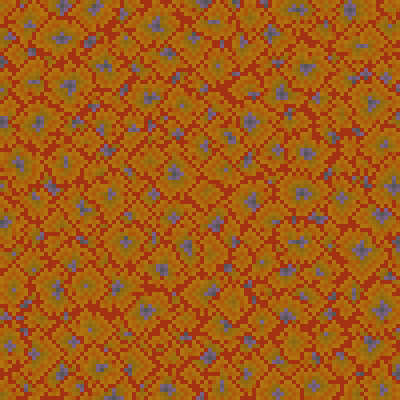
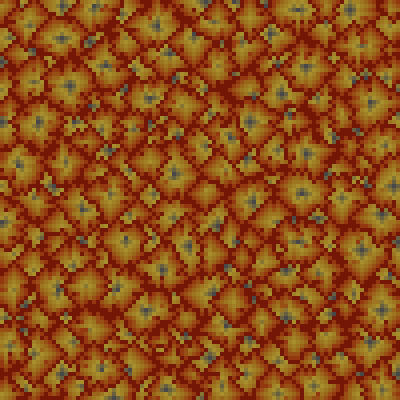
Day 9
Finished algorithm and got correct answer for part 2.
Fixed error in gradient generation function.

diff --git a/day09/day09.py b/day09/day09.py
@@ -1,10 +1,10 @@
 ## Advent of Code 2021: Day 9
 ## https://adventofcode.com/2021/day/9
 ## Jesse Williams | github.com/xram64
-## Answers: [Part 1]: 444, [Part 2]:
+## Answers: [Part 1]: 444, [Part 2]: 1168440
 
 import numpy as np
-from collections import namedtuple
+from collections import namedtuple, OrderedDict
 from PIL import Image
 
 # [Part 1: Scan over all locations, recording any local minima found within each location's L₁-norm neighborhood (with radius 1).]
@@ -45,7 +45,7 @@ def findRiskLevel(map, pos, dims):
         return (1 + map[pos])
 
 
-def constructGradient(stops):
+def constructGradient(stops, highlightEdges=None):
     # Expects a list of four RGB colors with format '#ffffff'
     if len(stops) != 4: raise ValueError('Expects 4 color stops.')
 
@@ -65,10 +65,98 @@ def constructGradient(stops):
         step_r = int( abs(stopComps[i+1][0] - stopComps[i][0]) / 3 )  # r
         step_g = int( abs(stopComps[i+1][1] - stopComps[i][1]) / 3 )  # g
         step_b = int( abs(stopComps[i+1][2] - stopComps[i][2]) / 3 )  # b
-        gradient[3*i+1] = tuple(map( lambda x,y: x+y, stopComps[i], (step_r, step_g, step_b) ))
-        gradient[3*i+2] = tuple(map( lambda x,y: x+y, stopComps[i], (2*step_r, 2*step_g, 2*step_b) ))
+        def addColors(c1, c2, step):
+            if (c1 < c2): return c1 + step    # going up
+            elif (c2 < c1): return c1 - step  # going down
+            else: return c1  # same value
+        gradient[3*i+1] = tuple(map( addColors, stopComps[i], stopComps[i+1], (step_r, step_g, step_b) ))
+        gradient[3*i+2] = tuple(map( addColors, stopComps[i], stopComps[i+1], (2*step_r, 2*step_g, 2*step_b) ))
+
+    # Optional: Highlight edges (9's) in map with a different color
+    if highlightEdges:
+        gradient[9] = (int(highlightEdges[1:3], 16), int(highlightEdges[3:5], 16), int(highlightEdges[5:7], 16))
 
     return gradient
+
+
+def _scanLeftRight(pos, map):
+    # Find the nearest borders to the given position within its row
+    left_border_idx, right_border_idx = -1, map.shape[1]  # set defaults to just outside of map in case basin is adjacent to an edge
+    row_iter = np.nditer(map[pos.y, :], flags=['f_index'])
+
+    for e in row_iter:
+        if (row_iter.index < pos.x) and (e == 1):
+            left_border_idx = row_iter.index  # save last encountered border, up to the given position
+        elif (row_iter.index > pos.x) and (e == 1):
+            right_border_idx = row_iter.index  # save next encountered border after the given position
+            break
+
+    # Return the list of potentially new basin positions found between the borders
+    return [Pos(x=i, y=pos.y) for i in range(left_border_idx+1, right_border_idx)]
+
+def _scanUpDown(pos, map):
+    # Find the nearest borders to the given position within its row
+    up_border_idx, down_border_idx = -1, map.shape[0]  # set defaults to just outside of map in case basin is adjacent to an edge
+    col_iter = np.nditer(map[:, pos.x], flags=['f_index'])
+
+    for e in col_iter:
+        if (col_iter.index < pos.y) and (e == 1):
+            up_border_idx = col_iter.index  # save last encountered border, up to the given position
+        elif (col_iter.index > pos.y) and (e == 1):
+            down_border_idx = col_iter.index  # save next encountered border after the given position
+            break
+
+    # Return the list of potentially new basin positions found between the borders
+    return [Pos(x=pos.x, y=j) for j in range(up_border_idx+1, down_border_idx)]
+
+def exploreBasin(lowpt, map, anim_basin=None):
+    # Basin scanning algorithm:
+    #  - Starting with a low point, scan left and right until a border (1) is hit.
+    #  - From each point found in the left-right scan, scan up and down until a border is hit.
+    #  - From each of these new points, scan left and right, and so on.
+    #  - Once a full scan in either direction has completed without adding any new points, all points in the basin have been identified.
+
+    max_depth = 25  # max iteration depth for the entire scan
+    _nextScan = [_scanUpDown, _scanLeftRight]  # function list to alternate scan axes
+    n = 0  # index to set next scan function
+
+    basinPositions = set()
+
+    # Get positions of all basin elements left and right from the initial low point
+    scanList = _scanLeftRight(lowpt, map)
+    lastPositions = set(scanList)
+    basinPositions |= lastPositions
+
+    # (Optional) Add new positions to animation list
+    if anim_basin != None: anim_basin += scanList
+
+    # Alternate scanning up-down and left-right until all basin positions have been discovered
+    for _ in range(max_depth):
+        # For each of the last-found positions, scan along the opposite axis for new positions
+        newPositions = set()
+        for pos in lastPositions:
+            # Gather all scanned positions into the newPositions set
+            scanList = _nextScan[n](pos, map)
+            newPositions |= set(scanList)
+
+            # (Optional) Add new positions to animation list
+            if anim_basin != None: anim_basin += [p for p in scanList if p not in anim_basin]
+
+        # If we've already seen all of these new positions, we can assume all basin positions have been found
+        if set(newPositions) <= set(basinPositions):  # subset check
+            break
+        else:
+            # If we did find new positions, collect only the ones not seen before into the lastPositions set
+            lastPositions = newPositions - basinPositions
+            # Then union these new positions into the basinPositions set
+            basinPositions |= lastPositions
+
+        # Set up next scan axis
+        n = (n + 1)%2
+    else:
+        print(f'Max iteration depth of {max_depth} reached!')
+
+    return list(basinPositions)
 
 
 if __name__ == '__main__':
@@ -83,7 +171,7 @@ if __name__ == '__main__':
     heightmap_dims = Dims(*heightmap.shape)
 
     total_risk_level = 0
-    low_point_count = 0
+    low_points = []
 
     for r in range(heightmap_dims.rows):
         for c in range(heightmap_dims.cols):
@@ -92,27 +180,60 @@ if __name__ == '__main__':
             risk = findRiskLevel(heightmap, pos, heightmap_dims)
             total_risk_level += risk
 
-            if (risk > 0): low_point_count += 1
+            # If we found a low point here (non-zero risk), add its position to the list of low points
+            if (risk > 0):
+                low_points.append(pos)
 
-    print(f"[Part 1] There are {low_point_count} low points in the heightmap with a total risk level of {total_risk_level}.")
+    print(f"[Part 1] There are {len(low_points)} low points in the heightmap with a total risk level of {total_risk_level}.")
+
 
     # Create image of heightmap
     img_heightmap = Image.new('RGB', (heightmap_dims.cols, heightmap_dims.rows))
     img_heightmap_scale = 4
 
-    gradient = constructGradient(['#555555', '#8e6810', '#ac590b', '#a43111'])
+    gradient = constructGradient(['#484848', '#a68f2c', '#9a6619', '#90200c'], highlightEdges='#751707')
     colormap = {}
     for n, color in enumerate(gradient):
         colormap[n] = color
 
     for j in range(heightmap_dims.rows):
         for i in range(heightmap_dims.cols):
-            img_heightmap.putpixel( (i, j), colormap[heightmap[j,i]])
+            img_heightmap.putpixel((i, j), colormap[heightmap[j,i]])
 
     img_heightmap = img_heightmap.resize((img_heightmap_scale*heightmap_dims.cols, img_heightmap_scale*heightmap_dims.rows), resample=Image.NEAREST)
     img_heightmap.save('day09_heightmap.png')
 
 
     ## Part 2
-    # Idea: Make all numbers in heightmap within [0,8] snap to 8, so that map only has 8's and 9's (or convert them into 0/1).
-    #       Effectively, "push in" all of the lower areas so that all basins are exactly 1 level below the surface.
+    # First, convert the heightmap into a binary "basin map" where the walls (9's) are mapped to 1 and all other positions are mapped to 0.
+    basinmap = heightmap.copy()
+    basinmap[basinmap <= 8] = 0
+    basinmap[basinmap == 9] = 1
+
+    # Set up a list to keep track of coords for the scanning animation
+    # Each basin will have its own sub-list in scanning order made of the list of coords for each basin, added in the order they're found
+    # Format:  [[Basin1], [Basin2], ...] = [[(2,2), (2,3), (3,2)], [(4,1), (4,2)], ...]
+    anim_coords = []
+
+    # Find the size of each basin
+    basins = {}  # maps low point positions to the list of coords in the basin they occupy
+    for lowpt in low_points:
+        anim_basin = []  # provide a list to the scan function to capture coord list
+        basins[lowpt] = exploreBasin(lowpt, basinmap, anim_basin=anim_basin)
+
+        anim_coords.append(anim_basin)
+
+    basin_sizes = {}  # maps low point positions to the size of the basin they occupy
+    for lowpt in low_points:
+        basin_sizes[lowpt] = len(basins[lowpt])
+
+    # Convert basin_sizes into a sorted OrderedDict
+    sorted_basin_sizes = OrderedDict(sorted(basin_sizes.items(), key=lambda t: t[1]))
+
+    # Take out and format the top three basin sizes
+    top3 = []
+    for i in range(3):
+        last = sorted_basin_sizes.popitem()
+        top3.append( ((last[0].x, last[0].y), last[1]) )
+
+    print(f"[Part 2] The three largest basins are {top3[0][1]} at {top3[0][0]}, {top3[1][1]} at {top3[1][0]}, and {top3[2][1]} at {top3[2][0]}, with a product of {top3[0][1]*top3[1][1]*top3[2][1]}.")

diff --git a/README.md b/README.md
@@ -142,6 +142,7 @@
 > python day09.py
 
 [Part 1] There are 206 low points in the heightmap with a total risk level of 444.
+[Part 2] The three largest basins are 107 at (90, 62), 105 at (17, 21), and 104 at (92, 25), with a product of 1168440.
 ```
 
 ![Day 9 - Height Map](day09/day09_heightmap.png)
